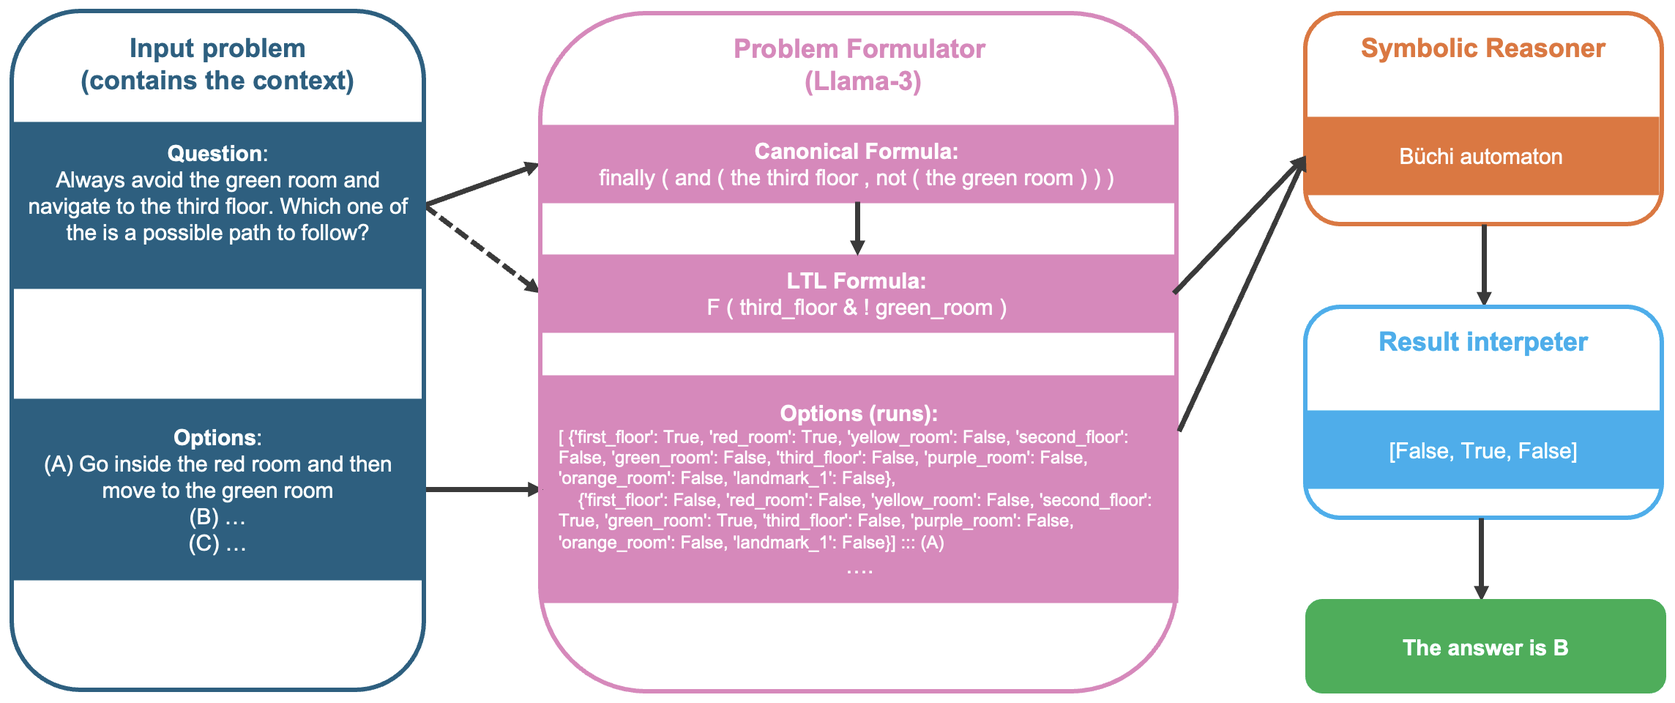
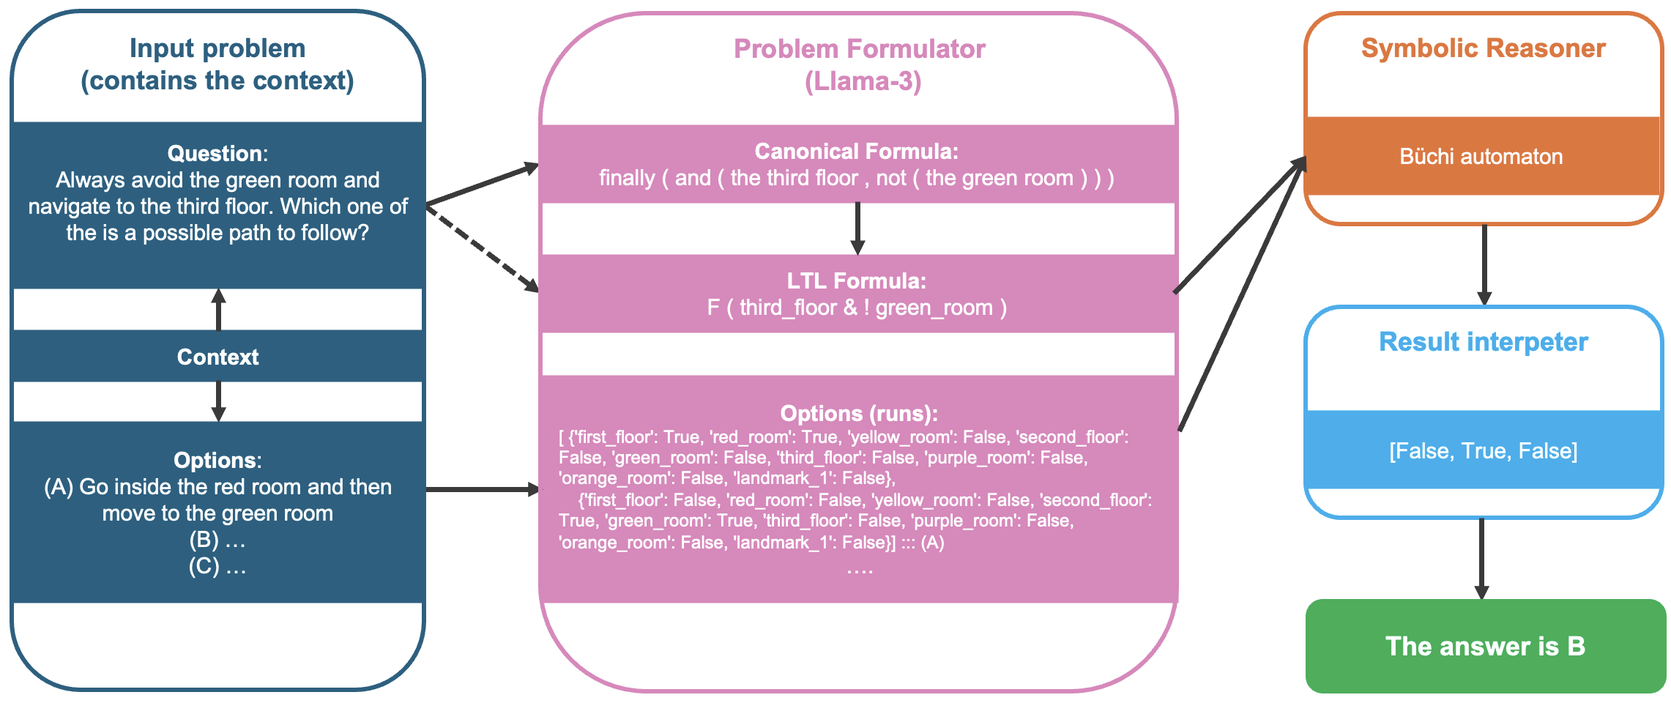
improvements

diff --git a/blogpost.md b/blogpost.md
@@ -46,20 +46,30 @@ prompting and CoT prompting, respectively. Third, while CoT generally enhances L
 <!--Pan et al. (2023) report three main results. First, LOGIC-LM notably outperforms standard LLMs and Chain-of-Thought (CoT) across various datasets, highlighting the advantage of integrating LLMs with external symbolic solvers for logical reasoning. Second, GPT-4 exhibits superior performance compared to GPT-3.5, especially in standard prompting. Logic-LM further improves GPT-4 by 24.98% and 10.44% for standard prompting and CoT prompting, respectively. Third, while CoT generally enhances LLM performance, its benefits vary across datasets, with less substantial or negative effects seen in certain scenarios. Additionally, the effectiveness of problem formulation, the robustness of reasoning, and the impact of self-refinement highlight both the successes and challenges encountered in these areas.-->
 
 ## <a name="reasons">Reasons for extension</a>
-*Exposition of its weaknesses/strengths/potential which triggered your group to come up with a response.*
-
 As outlined in the introduction, the Logic-LM framework relies on three LLMs: ChatGPT, GPT-3.5, and GPT-4. However, due to their closed-source nature, these models suffer from limited transparency, customization options, and opportunities for collaboration. Therefore,  integrating open-source LLMs into the Logic-LM framework would be beneficial, as it increases accessibility, usability and flexibility. 
 
 The authors of Logic-LM pointed out a crucial constraint, stating that “the model’s applicability is inherently bounded by the expressiveness of the symbolic solver” (Pan et al., 2023). Currently, only four distinct symbolic solvers are employed, limiting the framework's scope to four specific types of logical reasoning problems. This limitation can be mitigated by integrating more symbolic solvers into the framework, as proposed by the authors (Pan et al., 2023). Therefore, incorporating an additional solver expands the framework’s capabilities, which is facilitated by the inherent flexibility of its design. Moreover, this addition encourages the development of a versatile logic-solving model. 
+
+AAdditionally, we will reproduce the results of the original paper to investigate its reproducibility. As the authors utilized closed-source models, we have opted to reproduce the results on a smaller scale using ChatGPT.
+
+In summary, our contributions are threefold:
+
+1. Making Logic-LM open-source to enhance accessibility.
+2. Extending Logic-LM by integrating Linear Temporal Logic.
+3. Reproducing the results of the original paper to investigate its reproducibility.
 
 
 ## <a name="open_source">Extension: Open-source models</a>
 Our first extension is making Logic-LM work with open-source language models, instead of closed-source models like ChatGPT. To make the application as flexible as possible, this was appplied by using models from the Huggingface library (https://huggingface.co/meta-llama/Meta-Llama-3-8B-Instruct). Two versions of the current state-of-the-art open-source model Llama-3 have been utilized<!--(TODO add ref)-->. First, the smaller 8B version of the model is implemented and evaluated to see how well Logic-LM performs with a lower resource model. Additionally, the larger version of Llama-3 (70B) is utilized to extend Logic-LM, as it is significantly larger it is expected it outperforms the 8B variant. Both models are be compared with the GPT models used by the original author to see how SoTA open-source models compare to closed-source models. 
 
+### Experiments
+Following the methodology of the original paper we evaluate the two Llama3 models on five common logical reasoning datasets (as explained in the introduction). The models are compaired against 2 baselines 1) Standard LLMs;
+and 2) Chain-of-Thought (CoT) (Wei et al., 2022b). Follwing Pan et al (TODO bron) we ensure fair comparisons, by using the same in-context examples for all models. For reproducibility, we set the temperature to 0 and select the highest-probability response from the LLMs. We evaluate model performance based on the accuracy of selecting the correct answer from multiple-choice questions. (TODO stukje over self refinement)
+
 ## <a name="ltl">Extension: Linear Temporal Logic</a>
 Second, we extend the Logic-LLM by introducing Linear-time Temporal Logic (LTL), which enhances standard propositional logic to express properties that hold over time-based trajectories. This extension is particularly useful in robotics and automated planning, where paths must comply with temporal constraints. 
 
-The integration of Linear Temporal Logic (LTL) in Logic-LM involves several components, as illustrated in Figure 2. The input problem consists of a context, a question, and three multiple-choice options. The context sets the environment for answering the question. The problem formulator translates the question and options into logic formulas suitable for the solver. Specifically, the question is first converted into an easier canonical LTL representation, and then into the raw LTL formula. The options are translated into runs. The symbolic reasoner then evaluates each run to determine if it satisfies the LTL formula using a Büchi automaton. These results are passed to the result interpreter, which generates the answer. We will test and evaluate this extension based on a drone planning scenario (TODO bron dataset). Further details are provided in the following sections.
+The integration of Linear Temporal Logic (LTL) in Logic-LM involves several components, as illustrated in Figure 2. The input problem consists of a context, a question, and three multiple-choice options. The context sets the environment for answering the question. The problem formulator translates the question and options into logic formulas suitable for the solver. Specifically, the question is first converted into an easier canonical LTL representation, and then into the raw LTL formula. The options are translated into runs. The symbolic reasoner then evaluates each run to determine if it satisfies the LTL formula using a Büchi automaton. These results are passed to the result interpreter, which generates the answer. We will test and evaluate this extension based on a drone planning scenario (TODO bron dataset). Additionally we perform an experiment evaluating the performance of three LLMs in converting natural language to LTL and runs. Further details are provided in the following sections.
 
 
 <table align="center">
@@ -67,7 +77,7 @@ The integration of Linear Temporal Logic (LTL) in Logic-LM involves several comp
       <td><img src="src/pipeline_ltl.png" width=700></td>
   </tr>
   <tr align="left">
-    <td colspan=2><b>Figure 2.</b> Pipeline of Logic-LM for LTL.</td>
+    <td colspan=2><b>Figure 1.</b> Pipeline of Logic-LM for LTL.</td>
   </tr>
 </table> 
 
@@ -103,9 +113,9 @@ For $0 \leq i \leq n$, through induction one can define if $\psi$ is true at ins
 
 ### Problem Formulator
 
-We employ the 2 Llama-3 models to convert natural language into Linear Temporal Logic (LTL) tasks based on the attributes in the context of the question (e.g. planning domain). Utilizing few-shot learning, we establish a correspondence between natural language commands and their respective LTL formulas. With the given prompt, an open-source LLM can be directed to generate these LTL formulas from natural language. The conversion from natural language to LTL has been predominantly studied within the field of robotics [9]. 
+We utilize two Llama-3 models to convert natural language into Linear Temporal Logic (LTL) tasks and runs based on the context attributes (e.g., planning domain), the question, and the options. We provide the models with clear instructions and a few examples to facilitate few-shot learning. This approach helps establish a correspondence between natural language commands and their respective LTL formulas and runs. With the given prompts, the LLMs are directed to generate these LTL formulas and runs from natural language inputs effectively. (TODO deze zin lijkt overbodig --> )The conversion from natural language to LTL has been predominantly studied within the field of robotics [9]. 
 
-For illustration, consider the following Natural language commands $\mu$, and their corresponding LTL formula $\psi_{\mu}$, and explanation dictionary $(D_{\psi})$ generated by a LLM.  
+For illustration, consider the following Natural language commands $\mu$, and their corresponding LTL formula $\psi_{\mu}$, and explanation dictionary $(D_{\psi})$ generated by a LLM.  (TODO wat is de explanaition dictionary)
 
 > **$\mu:$ "Always avoid the green room and navigate to the third floor."**
 > 
@@ -119,17 +129,14 @@ For illustration, consider the following Natural language commands $\mu$, and th
       <td><img src="src/pipeline.jpg" width=800></td>
   </tr>
   <tr align="left">
-    <td colspan=2><b>Figure 1.</b>  Pipeline: Converting Natural Language to Linear Temporal Logic for Multiple Choice Answering.</td>
+    <td colspan=2><b>Figure 2.</b>  Pipeline: Converting Natural Language to Linear Temporal Logic for Multiple Choice Answering. (TODO dit plaatje klopt vlgs mij niet, de multiple choice antwoorden zijn vragen nml?</td>
   </tr>
 </table>
 
-(TODO verder uitwerken)
-We prompt the LLM to generate a possible finite run corresponding to each of the multiple-choice descriptions.
-
 #### Prompt Engineering
-Since Large language models are predominantly trained on natural language, they may struggle converting natural language directly into Linear Temporal Logic (LTL) formulas. The syntax of LTL (e.g. X, U, and F) is quite different from typical natural language constructs. To address this distribution shift, a study by Pan et al. (2023) proposes creating a *canonical* representation that aligns more closely with natural language [8]. For the same reason Cosler et al. (2023) prompt the LLM to turn $\mu$ into an intermediate *canoncial form*, shown as *sub-translations*, before mapping the the sentence into an LTL formula [5]. Each translation accompanies a translation dictionary in canonical form, through which th LLM is asked to explain its steps. We will use their prompting technique. 
+Since Large language models are predominantly trained on natural language, they may struggle converting natural language directly into Linear Temporal Logic (LTL) formulas. The syntax of LTL (e.g. X, U, and F) is quite different from typical natural language constructs. To address this distribution shift, a study by Pan et al. (2023) proposes creating a *canonical* representation that aligns more closely with natural language [8]. For the same reason Cosler et al. (2023) prompt the LLM to turn $\mu$ into an intermediate *canoncial form*, shown as *sub-translations*, before mapping the the sentence into an LTL formula [5]. Each translation accompanies a translation dictionary in canonical form, through which th LLM is asked to explain its steps. We will use their prompting technique. (TODO wij hebben geen translation dictionary in de prompt)
 
-The prompt outline below encapsulates our methodology, comprising three main sections — (1) LTL specification for the conversion of Natural Language to LTL, (2) the conversion of multiple choice options to traces, and (3) few-shot examples. All in all, the prompt serves as a structured framework for generating LTL formulas and traces from natural language inputs.
+The outline below encapsulates our prompt setup, comprising three main sections — (1) LTL specification for the conversion of Natural Language to LTL, (2) the conversion of multiple choice options to traces, and (3) few-shot examples. All in all, the prompt serves as a structured framework for generating LTL formulas and traces from natural language inputs.
 
 >**Prompt**
 >
@@ -144,15 +151,14 @@ Below an explanaition is given of all the input you will recieve and what you sh
 >
 >*Remember that U means "until", G means "globally", F means "eventually", which means GF means "infinitely often".*
 >
->*The formula should only contain atomic propositions or operators ||, &, !, X, U, G, F.*
+>*The formula should only contain atomic propositions or operators ||, &, !, U, G, F.*
 >
 >***Options**: The options need to be parsed into traces. These traces need to be a list ([]) containing dictionaries for each timestep ({}). In each dictionary the state of the corresponding timestep is given.*
 >
 >[Few shot examples]
 >
 >
-
-Simpler examples may not necessitate contextual information for trace generation, as the LLM is expected to infer when predictes have a mutually exclusive (mutex) relation. (e.g. The predicates sleeping and eating can not hold at the same time) However, as the complexity of trace generation tasks increases, the inclusion of detailed domain descriptions becomes crucial. For instance, in scenarios where the LLM needs to understand specific constraints, such as the impossibility of the drone simultaneously occupying the third floor and a particular room on the first floor, prompts enriched with a context are utilized. To evaluate the LLM's proficiency in generating traces within predetermined domains, we generated a datasets based on the *drone planning* domain [4]. This rigorous testing approach ensures thorough assessment of the LLM's capabilities across various levels of complexity and specificity.
+The addition of a context in the prompt is not always necessary for correct LTL generation as the LLM is expected to infer when predictes have a mutually exclusive (mutex) relation (e.g. the predicates sleeping and eating can not hold at the same time). However, we are utilizing a drone planning dataset that contains spefic constraints, such as the impossibility of the drone simultaneously occupying the third floor and a particular room on the first floor. Therefore prompts enriched with a context are utilized in this study.
 
 > **Context**:
 >  *Our environment consists of grid-based rooms across multiple floors. Each floor features distinct rooms: the first floor has a red room and a yellow room, the second  floor has a green room, and the third floor includes a purple room, an orange room, and Landmark 1.* *The drone’s movement is limited to one floor and not more than one  room at a time within this structured environment. This setup is crucial for guiding effective planning and decision-making processes within the context of our problem.*
@@ -174,7 +180,7 @@ Simpler examples may not necessitate contextual information for trace generation
 
 After the problem formulator has translated the natural language question into LTL and options into runs, we pass them to the logical reasoner. This reasoner checks for the validity of runs, verifying whether a given run satisfies the specified LTL formula. Runs are either accepted or rejected based on their compliance with the LTL formula, and consequently, the model is able to select one of the multiple-choice answers. 
 
-We employ a Python module to derive its associated Deterministic Finite State Automaton $M_{\phi}$. We integrate the *Flloat* Python library to translate LTL formulas (in CNF form) with finite-trace semantics into a minimal Deterministic Finite State Automaton (DFA) using MONA [3] (TODO wat is mona?). This conversion is guaranteed by Theorem 1. The resultigng  DFA ($M_{\phi}$) encapsulates the temporal constraints specified by the LTL formula, enabling efficient reasoning over finite traces. The trace-based satisfiability reasoning enhances the framework's capability to address temporal aspects of logical reasoning problems.
+We employ a Python module to derive its associated Deterministic Finite State Automaton $M_{\phi}$. We integrate the *Flloat* Python library (TODO bron) to translate LTL formulas (in CNF form) with finite-trace semantics into a minimal Deterministic Finite State Automaton (DFA) using MONA [3] (TODO wat is mona?). This conversion is guaranteed by Theorem 1. The resultigng  DFA ($M_{\phi}$) encapsulates the temporal constraints specified by the LTL formula, enabling efficient reasoning over finite traces. The trace-based satisfiability reasoning enhances the framework's capability to address temporal aspects of logical reasoning problems.
 
 **Theorem 1** [Vardi and Wolper, 1994 [10]]: For any LTL formula $\psi$, a Büchi automaton $M_{\psi}$ can be constructed, having a number of states that is at most exponential in the length of $\psi$.  The language of $M_{\psi}$, denoted as $L(M_{\psi})$, encompasses the set of models of $\psi$.
 
@@ -195,20 +201,13 @@ $L(M_{\psi}) = \\{ w \in \Sigma^{w} | w \text{ is accepted by}  M_{\psi} \\}$
 
 For each subplan $q_i$ of the run, the language function $L$ assigns a symbol $\sigma \in \Sigma$. These symbols collectively form a word **w** representing the sequence of symbols observed along the trace. This word **w** is then evaluated against the acceptance conditions of the DBA $M_{\psi}$. The language $L(M_{\psi})$ defines a set of infinite runs that the DFA can recognize. If **w** satisfies these acceptance conditions, then the finite run $\rho_{\psi}$ satisfies the LTL formula. Finite runs $\rho_{\psi}$ satisfiy the LTL if the word $ **w** = L(q_0)L(q_1)...L(q_n)$ is acceptable in $L(M_{\psi})$. 
 
-Step 5 in Figure 1 shows an example output of runs corresponding to options (A) and (B). In this step, the generated runs are evaluated against the associated Deterministic Finite Automaton $M_{\psi}$ to determine their validity.
+Step 5 in Figure 2 shows an example output of runs corresponding to options (A) and (B). In this step, the generated runs are evaluated against the associated Deterministic Finite Automaton $M_{\psi}$ to determine their validity.
 
+### Result interpreter
+Finally, the result interpreter translates the results returned from the symbolic solver back to a natural language answer. The symbolic reasoner returns "True" or "False" for each of the runs (options), this results in a list. From this list the results interpreter takes the index of the "True" value and maps it to the letter corresponding to the correct answer, *e.g. translating [True, False, False] to "the answer is A"*.
 
-### Language Grounding
-We aim to evaluate how well the LLM performs the conversion task from natural language to LTL, especially in cases where it needs to generalize from few examples (few-shot learning). The evaluation consists of two stages: (1) the conversion of the natural language command into LTL, and (2) the subsequent conversion of the multiple choice options (each formlated in natural language) into runs. 
-
-We test the parsing on two datasets. The first consists of 36 benchmark intances crafted by experts in the nl2spec study [5]. Each of these examples has been selected by LTL experts to cover a variety of ambiguities and complexities. We use their formatted intances, in addition we have prompted the LLM to replaced the propositions a,b,c,d to create more realistic sentences. For example: 
-
-> $\mu:$ Every meal is eventually followed by dessert. $\leftrightarrow$ G(meal -> F dessert).
-> 
-> $\mu:$ Whenever a car starts, the engine revs three steps later. $\leftrightarrow$ G(car_starts -> X X X engine_revs).
-
-The second dataset is derived from commands in the *drone planning* domain, adapted from [8]. This test set is generated from the planning domain introduced by [8], This environment is a 3D grid world that consists of three floors, six rooms, and a single landmark. We created a test set with multiple-choice options from their natural language descriptions and corresponding LTL formulas.
-
+### Experiments
+We evaluate LOGIC-LM LTL extension on a dataset derived from commands in the *drone planning* domain, adapted from [8]. This test set is generated from the planning domain introduced by [8], This environment is a 3D grid world that consists of three floors, six rooms, and a single landmark. We created a test set of 50 entries with each three multiple-choice options from their natural language descriptions and corresponding LTL formulas. Mirroring the original paper, we evaluate the LOGIC-LM LTL extension against 2 baselines:  1) Standard LLMs; and 2) Chain-of-Thought (CoT) (Wei et al., 2022b). Additionally we perform an experiment evaluating how well various LLMs convert Natural Language to LTL, this will be further discussed in the following section.
 
 <table align="center">
   <tr align="center">
@@ -219,64 +218,23 @@ The second dataset is derived from commands in the *drone planning* domain, adap
   </tr>
 </table> 
 
-The first dataset will be used to test the initial conversion from natural language to LTL, while the second dataset will be used to test both the initial conversion and the subsequent generation of runs.
+#### Natural language to LTL
+We aim to evaluate how well LLMs performs the conversion task from natural language to LTL in cases where it needs to generalize from few examples (few-shot learning). The evaluation consists of two stages: (1) the conversion of the natural language command into LTL, and (2) the subsequent conversion of the multiple choice options (each formlated in natural language) into runs. 
 
+We test the parsing on two datasets. The first dataset is the drone planning dataset, which is priorly discussed and used for the Logic-LM LTL extension evaluation. The second dataset consists of 36 benchmark intances crafted by experts in the nl2spec study [5]. Each of these examples has been selected by LTL experts to cover a variety of ambiguities and complexities. We use their formatted intances, in addition we have prompted the LLM to replaced the propositions a,b,c,d to create more realistic sentences. For example: 
 
-##### (1) Effectiveness of Problem Formulator
-By testing the NL to LTL conversion on the **nl2spec** dataset, we seek to understand how well the LLM can handle the translation from natural language to LTL at various levels of complexities, and to provide insights into potential areas for improvement in future iterations of such models. <!--( ToDo **Look up further studies on NL to LTL**)-->
-
-TO DO Accuracies over test sets
-| Dataset | GPT-4.o|  GPT-3 |Llama |
-|----------|----------|----------|----------|
-| nl2spec original  | X/36 (%) | X/36 (%) |X/36 (%) |
-| nl2spec in NL | X/36 (%) | 17/36 (47.22%)| X/36 (%) |
-
-We observe that the  number of exact matches TO DO. 
-
-
-###### Ambiguity
-As pointed out by Cosler et al. [5], their dataset contains two types of ambiguities. The first type arises from the inherent limitations of natural language, such as operator precedence. The second type stems from semantic ambiguities within natural language. An illustration of the first is *a holds until b holds or always a holds* which their human experts initially translated to $(a U b) | G a$. GPT-3 returns the following:
-
-> **$\mu:$ "The party is on until the speaker is broken or always the party is on."**
+> $\mu:$ Every meal is eventually followed by dessert. $\leftrightarrow$ G(meal -> F dessert).
 > 
-> $\psi_{\mu}$: $p U (s | G p)$
-> 
-> $D_{\psi}$: {"The party is on": "p", "until": "U", "the speaker is broken": "s", "or": "|", "always the party is on": "G p", "The party is on until the speaker is broken or always the party is on": "p U (s | G p)"}
+> $\mu:$ Whenever a car starts, the engine revs three steps later. $\leftrightarrow$ G(car_starts -> X X X engine_revs).
 
-As both are plausible translations depending on the interpretation of the sentence, the example shows how the conversion is not as straight forward. 
-
-An example of the second type is, *Whenever a holds, b must hold in the next two steps*, mapped to $G (a \rightarrow (b | X b))$. GPT3 returns:
-> **$\mu:$ "Whenever the food is hot, the food is cold in the next two steps."**
-> 
-> $\psi_{\mu}$: $G (h \rightarrow X X c)$
-> 
-> $D_{\psi}$: {"Whenever": "->", "the food is hot": "h", "the food is cold": "c", "in the next two steps": "X X", "the food is hot implies that the food is cold in the next two steps": "h -> X X c"}
-
-<!--**TO DO: Write about how to adjust the prompt to improve results**-->
+The first dataset will be used to test both the initial conversion and the subsequent generation of runs, while the second dataset will be used to test solely the initial conversion from natural language to LTL.
 
 
-
-
-- TO DO: Compare these results to **nl2spec** [5]. (T-5 fine tunes achieved 5.5% accurracy, nl2spec 44.4% accuracy)
-
-##### (2) Effectiveness of trace geneation
-
-- We plan to measure the accuracy of these conversions over a variety of LTL formulae.
-- We will investigate how trace generation is affected by the **Context** of the drone planning domain.
-
-- We aim to compare our results to results using GPT-3 or Rasa (Their source 3).
-- Which model can handle unstructured natural language better?
-- Mention how the few-shot prompting affect the results
-- 
-- Can the LLM infer that rooms belong to floors? (reasoning at abstracted levels)
-
-The results from the multiple choice options in the *planning domain* show that the ambiguity observed in (1) might prevent exact matches, but it enables effective executions in some cases. (i.e. generates the right answer, but the LTL formula of the test set is not an exact match)
-
-The elements within the *drona planning* grid world are organized into distinct levels of abstraction, with floors designated as level 2, rooms as level 1, and the landmark as level 0. Each natural language specification provided in our investigation is limited to a single sentence. Although there is no explicit restriction on the set of atomic propositions, specific guidelines are outlined in the task description. The LLM is asked to pick a possible path for the drone to follow, by checking if the run is valid for the $M_{\psi}$. Unlike previous approaches that utilize trajectory planners fed with LTL expressions, we introduce the predefined environment directly into the multiple-choice questions in natural language format, under the *context* section of the prompt.
-
+## Reprodcing the original results
+(TODO roos)
 
 ## <a name="results">Results</a>
-### <a name="general results">Main results</a>
+### <a name="general results">LLama as a open source LLM for Logic-LM</a>
 <table align="center">
 	<tr align="center">
 		<th align="left"></th>
@@ -351,7 +309,7 @@ Table 1 shows the results of the experiments with the open-source model.  It dis
 Comparing these results to the GPT model results from the original paper (Pan et al., 2023), we observe that Llama generally performs worse than the GPT models. Logic-LM has significantly lower scores compared to all GPT models for the Proofwriter, FOLIO and AR-LSAT dataset and slightly lower scores for the LogicalDeduction dataset. Only on the PrOntoQA Llama achieved a higher score than gpt-3.5-turbo, while still having worse scores when using the other GPT models. For the Standard and CoT method we observe similar performance to gpt-3.5-turbo while also being outperformed by the other GPT models. (*More results and analysis will follow in final version*)
 
 
-### <a name="sr results">Self-refinement</a>
+#### <a name="sr results">Self-refinement</a>
 <table align="center">
 	<tr align="center">
 		<th align="left"></th>
@@ -454,6 +412,59 @@ Comparing these results to the GPT model results from the original paper (Pan et
 	</tr>
 </table>
 Table 2 displays a comparison of self-refinement. (*More results and analysis will follow in final version*)
+
+### <a name="LTL results">LTL extension</a>
+##### (1) Effectiveness of Problem Formulator
+By testing the NL to LTL conversion on the **nl2spec** dataset, we seek to understand how well the LLM can handle the translation from natural language to LTL at various levels of complexities, and to provide insights into potential areas for improvement in future iterations of such models. <!--( ToDo **Look up further studies on NL to LTL**)-->
+ xch
+TO DO Accuracies over test sets
+| Dataset | GPT-4.o|  GPT-3 |Llama |
+|----------|----------|----------|----------|
+| nl2spec original  | X/36 (%) | X/36 (%) |X/36 (%) |
+| nl2spec in NL | X/36 (%) | 17/36 (47.22%)| X/36 (%) |
+
+We observe that the  number of exact matches TO DO. 
+
+
+###### Ambiguity
+As pointed out by Cosler et al. [5], their dataset contains two types of ambiguities. The first type arises from the inherent limitations of natural language, such as operator precedence. The second type stems from semantic ambiguities within natural language. An illustration of the first is *a holds until b holds or always a holds* which their human experts initially translated to $(a U b) | G a$. GPT-3 returns the following:
+
+> **$\mu:$ "The party is on until the speaker is broken or always the party is on."**
+> 
+> $\psi_{\mu}$: $p U (s | G p)$
+> 
+> $D_{\psi}$: {"The party is on": "p", "until": "U", "the speaker is broken": "s", "or": "|", "always the party is on": "G p", "The party is on until the speaker is broken or always the party is on": "p U (s | G p)"}
+
+As both are plausible translations depending on the interpretation of the sentence, the example shows how the conversion is not as straight forward. 
+
+An example of the second type is, *Whenever a holds, b must hold in the next two steps*, mapped to $G (a \rightarrow (b | X b))$. GPT3 returns:
+> **$\mu:$ "Whenever the food is hot, the food is cold in the next two steps."**
+> 
+> $\psi_{\mu}$: $G (h \rightarrow X X c)$
+> 
+> $D_{\psi}$: {"Whenever": "->", "the food is hot": "h", "the food is cold": "c", "in the next two steps": "X X", "the food is hot implies that the food is cold in the next two steps": "h -> X X c"}
+
+<!--**TO DO: Write about how to adjust the prompt to improve results**-->
+
+
+
+
+- TO DO: Compare these results to **nl2spec** [5]. (T-5 fine tunes achieved 5.5% accurracy, nl2spec 44.4% accuracy)
+
+##### (2) Effectiveness of trace geneation
+
+- We plan to measure the accuracy of these conversions over a variety of LTL formulae.
+- We will investigate how trace generation is affected by the **Context** of the drone planning domain.
+
+- We aim to compare our results to results using GPT-3 or Rasa (Their source 3).
+- Which model can handle unstructured natural language better?
+- Mention how the few-shot prompting affect the results
+- 
+- Can the LLM infer that rooms belong to floors? (reasoning at abstracted levels)
+
+The results from the multiple choice options in the *planning domain* show that the ambiguity observed in (1) might prevent exact matches, but it enables effective executions in some cases. (i.e. generates the right answer, but the LTL formula of the test set is not an exact match)
+
+The elements within the *drona planning* grid world are organized into distinct levels of abstraction, with floors designated as level 2, rooms as level 1, and the landmark as level 0. Each natural language specification provided in our investigation is limited to a single sentence. Although there is no explicit restriction on the set of atomic propositions, specific guidelines are outlined in the task description. The LLM is asked to pick a possible path for the drone to follow, by checking if the run is valid for the $M_{\psi}$. Unlike previous approaches that utilize trajectory planners fed with LTL expressions, we introduce the predefined environment directly into the multiple-choice questions in natural language format, under the *context* section of the prompt.
 
 ### <a name="reproducibility results">Reproducibility</a>
 <table align="center">
